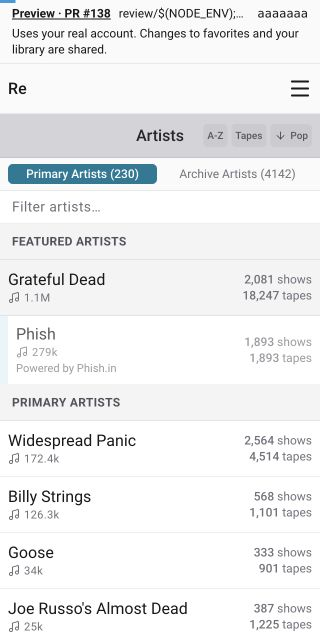
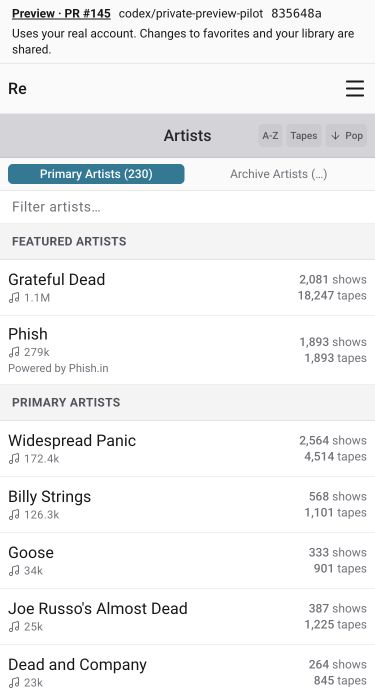
Record live preview runtime and shared-auth verification

diff --git a/docs/previews/runtime.md b/docs/previews/runtime.md
@@ -1,11 +1,19 @@
 # Preview runtime verification
 
-The same built `linux/amd64` image was started with and without preview metadata on November 14, 2026. Both containers ran as UID/GID 1001 with a read-only root, no capabilities, and writable `/tmp`. The preview indicator is a runtime choice; the image does not need rebuilding for another PR.
+The live pilot deployed and updated PRs 145 and 147 through private Tailscale HTTPS on November 14, 2026. The screenshot below shows PR 145 at commit `835648a`, with the normal branch name `codex/private-preview-pilot`. At 375px wide, the metadata remained visible without horizontal overflow. Both disposable PRs were closed without merging after the checks.
 
-The local fixture used PR 138, commit `aaaaaaaaaaaaaaaaaaaaaaaaaaaaaaaaaaaaaaaa`, and literal branch text `review/$(NODE_ENV);<b>$(id)</b>`. These are rendering fixtures, not an active PR deployment. Chrome showed that text literally, without creating a `<b>` element. The indicator survived hydrated navigation to `/phish`. The ordinary container had no indicator. Neither response included an unrelated environment sentinel injected for the test.
+![Live preview with normal branch metadata](runtime-preview-mobile.jpg)
 
-The 320px layout kept the metadata visible with no horizontal overflow. About fitted a 1280×720 viewport; the embed fitted a 375×400 viewport, including its indicator. Preview privacy-policy responses returned `X-Robots-Tag: noindex, nofollow, noarchive`.
+`NODE_ENV` stays `production` so previews use the optimized server. Preview rendering is selected separately by `RELISTEN_DEPLOYMENT_ENV=preview` and allowlisted PR, branch, commit and URL variables injected at runtime. An unrelated environment sentinel did not appear in either the preview or ordinary response during the local container proof.
 
-![Preview container at a small viewport](runtime-preview-mobile.jpg)
+## Browser and auth checks
 
-The unit suite passed 39 tests, typecheck and production build passed, and focused lint passed on changed files. Full-repository lint still reports existing unescaped-apostrophe errors in About and Open Graph files. This local container proof does not establish live Tailscale login or CI deployment; those are separate activation checks.
+Fresh Google sign-in completed through the shared backend. The second hostname initially returned 401 while the first was signed in; after its own sign-in, both returned the same parsed user ID and library contents. Reload preserved the session. Missing/invalid CSRF tokens returned 403; a valid token reached application validation and returned 422 for an invalid empty mutation batch. Logging out the fresh test session revoked the sibling preview session. These probes did not change favorites.
+
+## Local boundary and layout checks
+
+The same built `linux/amd64` image was started with and without preview metadata. Both containers ran as UID/GID 1001 with a read-only root and no capabilities. The preview indicator survived hydrated navigation to `/phish`; the ordinary container had none. About fitted a 1280×720 viewport and embed fitted 375×400. Preview privacy-policy responses returned `X-Robots-Tag: noindex, nofollow, noarchive`.
+
+A separate security fixture deliberately used the literal branch name `review/$(NODE_ENV);<b>$(id)</b>`. Chrome displayed that text without creating a `<b>` element. `NODE_ENV` in that screenshot is part of the test branch name, not an unresolved variable. The [adversarial fixture screenshot](runtime-preview-adversarial-mobile.jpg) remains as evidence.
+
+The web suite passed 39 tests, typecheck and production build passed, and focused lint passed on changed files. Full-repository lint still reports existing About and Open Graph errors. See [the structured proof](runtime-proof.json) and the [operator runbook](https://github.com/RelistenNet/relisten-flux/blob/codex/private-branch-previews/previews/pilot/README.md) for deployment, network, retirement and image-cleanup evidence.
